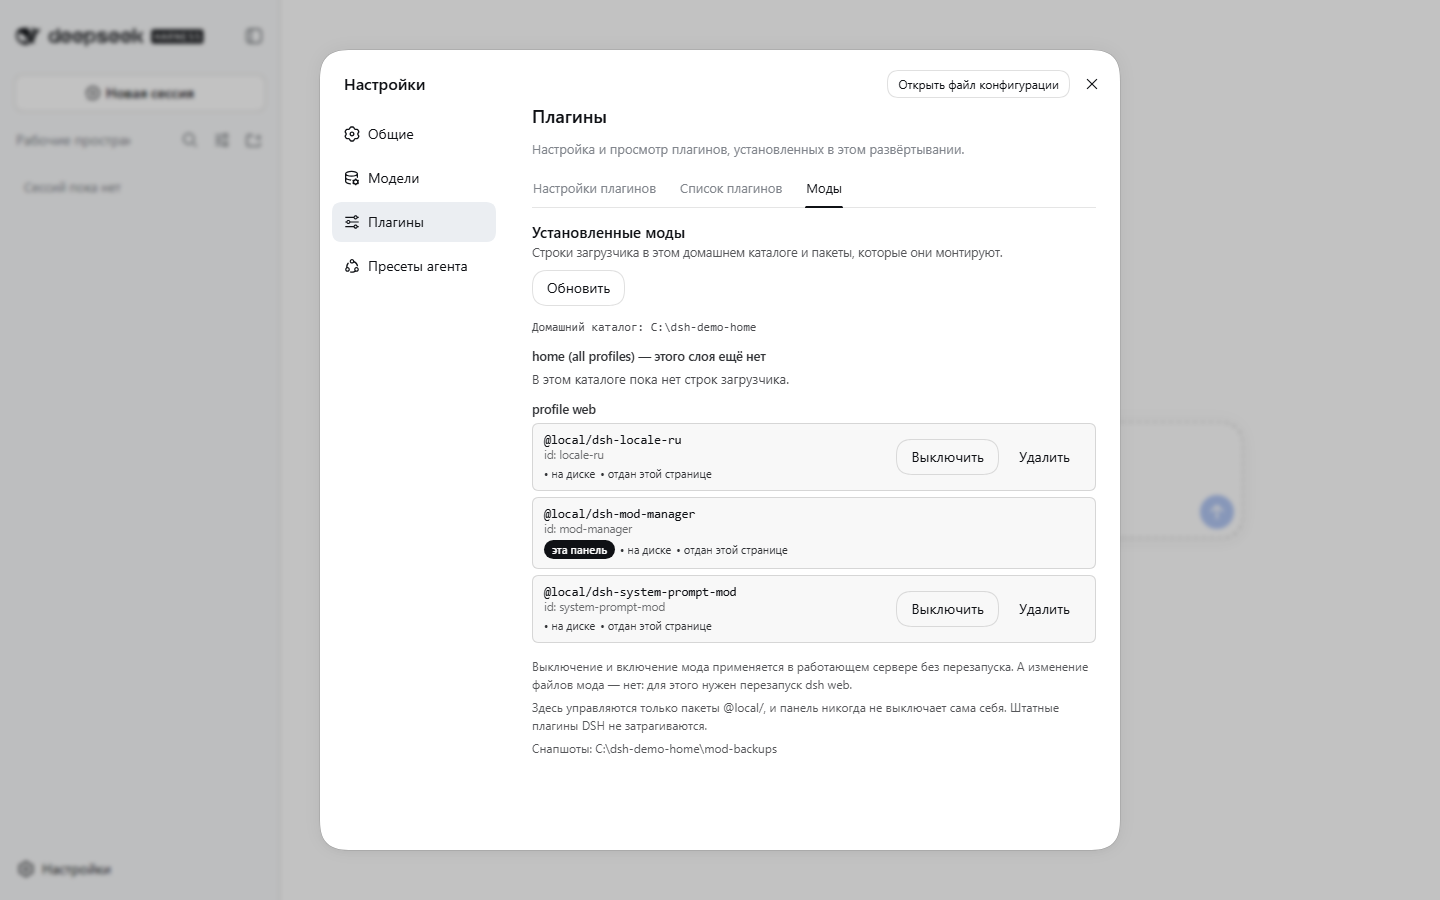
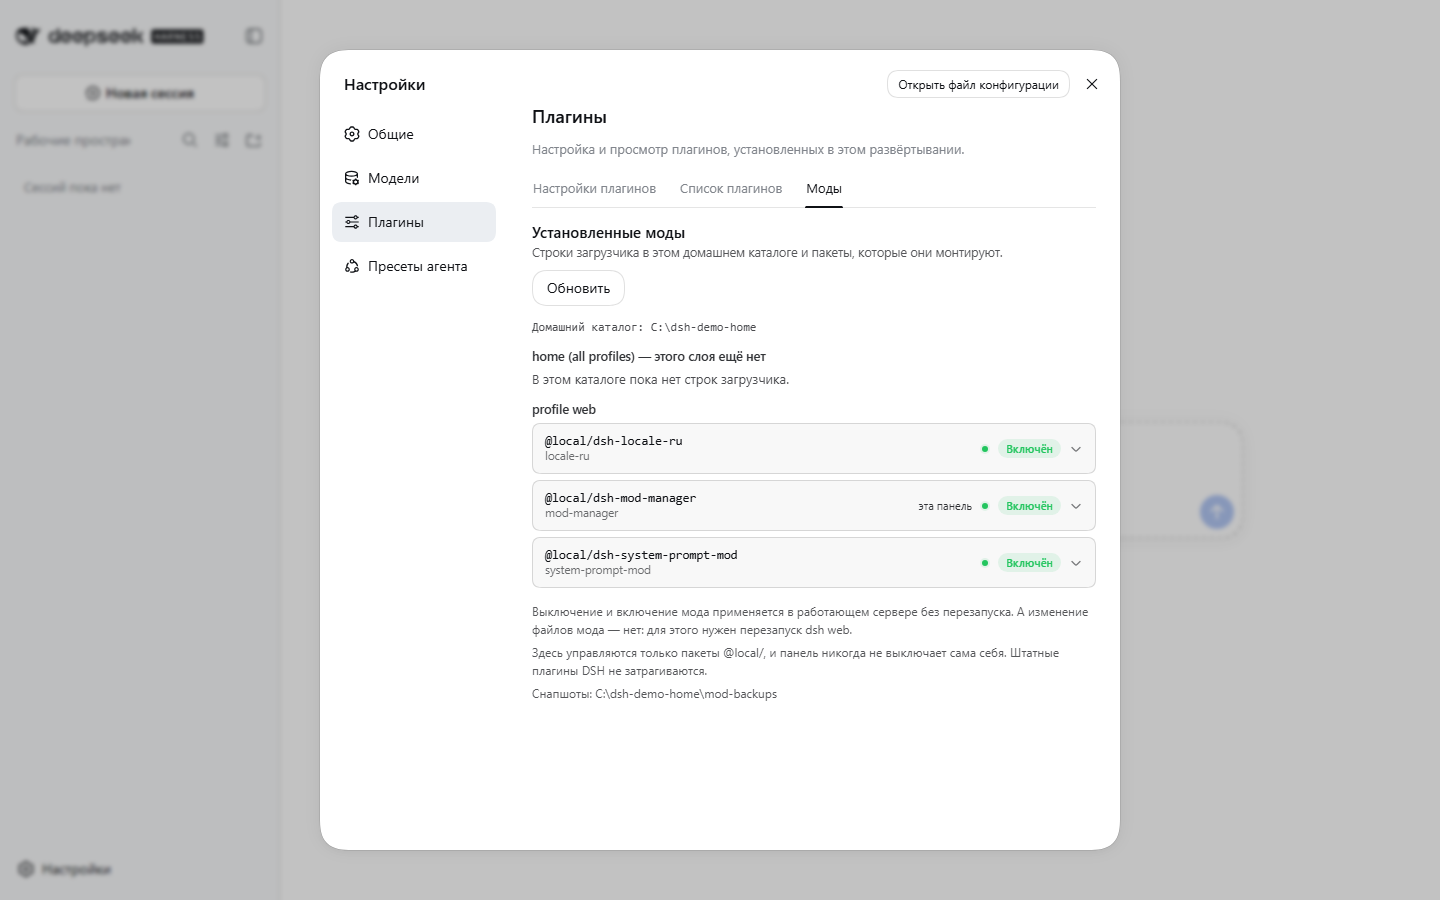
Make the mod cards the platform's own format, not a look-alike
The shipped plugin inventory builds its rows from primitives.Tag and primitives.StateDot, and both are available to any plugin. The panel now uses them too, so a mod reads green when it is on and red when it is off exactly the way every other plugin in DSH reads, rather than in a private style that only resembled it.

Each row is a card: the name and id, a state dot, the enablement tag and a disclosure chevron. Clicking the tag is the control that turns the mod off or on. Opening the chevron shows the module, its configuration state, whether the package is on disk, whether this page was served it, its size, and the actions - so the destructive one is no longer under the cursor of someone scanning the list.

The panel also stopped remembering the page's boot graph from load time and reads it on every render, which is what the card's dot reports.

Tested both ways: the stub now carries StateDot and the chevron so the tones and the toggle are asserted, and a real headless-Edge run confirms the primitives resolve at runtime - green on, red off, row gone from the patch, no console errors. docs/VERIFICATION.md records it, and both screenshots are retaken.

Changed region(s): [[0.375, 0.4667, 0.75, 0.84]]

diff --git a/packages/mod-manager/lib/client.js b/packages/mod-manager/lib/client.js
@@ -53,6 +53,18 @@ window.__ModuleLoader__.load({
 			notOnDisk: "missing on disk",
 			selfBadge: "this panel",
 			offBadge: "turned off",
+			stateOn: "On",
+			stateOff: "Off",
+			stateBroken: "No package",
+			detailsModule: "Module",
+			detailsConfig: "Configuration",
+			detailsServed: "Served to this page",
+			detailsOnDisk: "On disk",
+			detailsSize: "Size",
+			detailsActions: "Actions",
+			yes: "yes",
+			no: "no",
+			files: "files",
 			unmanaged: "not managed",
 			disable: "Turn off",
 			enable: "Turn on",
@@ -97,6 +109,18 @@ window.__ModuleLoader__.load({
 			notOnDisk: "нет на диске",
 			selfBadge: "эта панель",
 			offBadge: "выключен",
+			stateOn: "Включён",
+			stateOff: "Выключен",
+			stateBroken: "Нет пакета",
+			detailsModule: "Модуль",
+			detailsConfig: "Конфигурация",
+			detailsServed: "Отдан этой странице",
+			detailsOnDisk: "На диске",
+			detailsSize: "Размер",
+			detailsActions: "Действия",
+			yes: "да",
+			no: "нет",
+			files: "файлов",
 			unmanaged: "не управляется",
 			disable: "Выключить",
 			enable: "Включить",
@@ -265,6 +289,32 @@ window.__ModuleLoader__.load({
 				wordBreak: "break-all",
 			},
 			rowId: { fontSize: "11.5px", opacity: 0.6 },
+			card: {
+				borderRadius: "10px",
+				border: "1px solid var(--dsw-alias-border-secondary, rgba(127,127,127,.28))",
+				background: "var(--dsw-alias-bg-secondary, rgba(127,127,127,.05))",
+				overflow: "hidden",
+			},
+			cardHeader: {
+				display: "flex",
+				alignItems: "center",
+				gap: "10px",
+				padding: "10px 12px",
+				cursor: "pointer",
+			},
+			cardMain: { flex: "1 1 auto", minWidth: 0 },
+			cardRight: { display: "flex", alignItems: "center", gap: "8px", flexShrink: 0 },
+			dot: { display: "inline-flex", alignItems: "center" },
+			chevron: { display: "inline-flex", opacity: 0.55, transition: "transform .15s ease" },
+			details: {
+				display: "grid",
+				gridTemplateColumns: "auto minmax(0, 1fr)",
+				gap: "4px 14px",
+				margin: 0,
+				padding: "0 12px 12px",
+				fontSize: "12.5px",
+			},
+			detailsLabel: { opacity: 0.6 },
 			badges: { display: "flex", flexWrap: "wrap", gap: "5px", alignItems: "center", marginTop: "4px" },
 			badge: { fontSize: "11px", opacity: 0.85 },
 			actions: { display: "flex", gap: "6px", flexWrap: "nowrap" },
@@ -290,9 +340,13 @@ window.__ModuleLoader__.load({
 			// function each time, and the effect below would refetch forever.
 			const t = react.useMemo(() => translator(props?.t), [props?.t]);
 			const [state, setState] = react.useState(null);
-			const [served, setServed] = react.useState(() => servedNames());
+			// Read on every render rather than remembered at load: the page's own
+			// boot graph is what the panel is reporting, and it can change under it.
+			const served = servedNames();
 			const [busy, setBusy] = react.useState(false);
 			const [notice, setNotice] = react.useState(null);
+			// One open card at a time, the way the shipped plugin inventory behaves.
+			const [expanded, setExpanded] = react.useState(null);
 
 			const load = react.useCallback(() => {
 				setBusy(true);
@@ -306,7 +360,6 @@ window.__ModuleLoader__.load({
 						return;
 					}
 					setState(body);
-					setServed(servedNames());
 				}, (error) => {
 					setNotice({ kind: "error", text: t(ERROR_KEYS[String(error?.message)] ?? "errGeneric") });
 				}).finally(() => {
@@ -328,7 +381,6 @@ window.__ModuleLoader__.load({
 						return;
 					}
 					if (body.state !== undefined) setState(body.state);
-					setServed(servedNames());
 					setNotice({ kind: "info", text: t(okKey) });
 				}, (error) => {
 					setNotice({ kind: "error", text: t(ERROR_KEYS[String(error?.message)] ?? "errGeneric") });
@@ -354,62 +406,113 @@ window.__ModuleLoader__.load({
 				body.push(h("div", { style: styles.notice, key: "loading" }, t("loading")));
 			}
 
-			const rowOf = (layer, row) => {
+			/**
+			 * One mod as an official-style card.
+			 *
+			 * The tag and the dot are the platform's own `Tag` and `StateDot`, with
+			 * the same tones the shipped plugin inventory uses — `success` for on,
+			 * `danger` for off — so a mod reads the way every other plugin in DSH
+			 * reads. Clicking the tag turns the mod off or on; the chevron opens the
+			 * details, where the destructive action lives rather than under the
+			 * cursor of someone scanning the list.
+			 */
+			const cardOf = (layer, row) => {
+				const key = `${layer.key}:${row.id}`;
+				const isOpen = expanded === key;
 				const present = row.package !== null && row.package !== undefined;
 				const isServed = served.has(row.name);
-				const badges = h("div", { style: styles.badges },
-					row.disabled ? badge(t, "offBadge", "solid") : null,
-					row.self ? badge(t, "selfBadge", "solid") : null,
-					!row.managed ? h("span", { style: styles.badge, key: "unmanaged" }, t("unmanaged")) : null,
-					present
-						? h("span", { style: styles.badge, key: "disk" }, `• ${t("onDisk")}`)
-						: badge(t, "notOnDisk", "neutral"),
-					h("span", { style: styles.badge, key: "served" }, isServed ? `• ${t("served")}` : `• ${t("notServed")}`));
-
-				// Which toggle is offered follows whether the row is in the patch
-				// file, not whether the package is on disk: a broken row can still
-				// be turned off, and a turned-off row is the only thing that can be
-				// turned back on.
 				const canManage = row.managed && !row.self;
-				const actions = h("div", { style: styles.actions },
-					canManage
-						? (row.disabled
-							? h(primitives.Button, {
-								variant: "outline",
-								disabled: busy,
-								key: "enable",
-								title: present ? undefined : t("errPackageNotInstalled"),
-								onClick: () => {
-									run({ action: "enable", layer: layer.key, id: row.id }, "okEnabled");
-								},
-							}, t("enable"))
-							: h(primitives.Button, {
-								variant: "outline",
-								disabled: busy,
-								key: "disable",
-								onClick: () => {
-									run({ action: "disable", layer: layer.key, id: row.id }, "okDisabled");
-								},
-							}, t("disable")))
-						: null,
-					canManage && present && !row.disabled
-						? h(primitives.Button, {
-							variant: "ghost",
-							disabled: busy,
-							key: "uninstall",
-							onClick: () => {
-								if (globalThis.confirm?.(t("confirmUninstall")) === false) return;
-								run({ action: "uninstall", layer: layer.key, id: row.id }, "okUninstalled");
-							},
-						}, t("uninstall"))
-						: null);
+				const broken = !present;
+				const tone = row.disabled ? "danger" : (broken ? "warning" : "success");
+				const label = row.disabled ? t("stateOff") : (broken ? t("stateBroken") : t("stateOn"));
+				const dotState = row.disabled ? "idle" : (broken ? "error" : (isServed ? "done" : "idle"));
 
-				return h("div", { style: styles.row, key: `${layer.key}:${row.id}` },
-					h("div", { style: { minWidth: 0 } },
-						h("div", { style: styles.modName }, row.name),
-						h("div", { style: styles.rowId }, `id: ${row.id}`),
-						badges),
-					actions);
+				const act = (payload, okKey) => (event) => {
+					if (typeof event?.stopPropagation === "function") event.stopPropagation();
+					run(payload, okKey);
+				};
+
+				const tag = h(primitives.Tag, { tone, key: "tag" }, label);
+				const right = h("div", { style: styles.cardRight },
+					row.self ? h("span", { style: styles.badge, key: "self" }, t("selfBadge")) : null,
+					!row.managed ? h("span", { style: styles.badge, key: "unmanaged" }, t("unmanaged")) : null,
+					h("span", { style: styles.dot, key: "dot", title: isServed ? t("served") : t("notServed") },
+						h(primitives.StateDot, { state: dotState })),
+					canManage
+						? h("span", {
+							key: "toggle",
+							role: "button",
+							title: row.disabled ? t("enable") : t("disable"),
+							style: { display: "inline-flex", cursor: busy ? "default" : "pointer" },
+							onClick: row.disabled
+								? act({ action: "enable", layer: layer.key, id: row.id }, "okEnabled")
+								: act({ action: "disable", layer: layer.key, id: row.id }, "okDisabled"),
+						}, tag)
+						: tag,
+					h("span", {
+						key: "chevron",
+						style: { ...styles.chevron, transform: isOpen ? "rotate(180deg)" : "none" },
+					}, h(primitives.IconChevronDownOutline14, {})));
+
+				const pair = (name, value, id) => [
+					h("dt", { style: styles.detailsLabel, key: `${id}-l` }, name),
+					h("dd", { style: { margin: 0, wordBreak: "break-all" }, key: `${id}-v` }, value),
+				];
+				const rows = [
+					pair(t("detailsModule"), row.name, "m"),
+					pair(t("detailsConfig"), row.disabled ? t("stateOff") : t("stateOn"), "c"),
+					pair(t("detailsServed"), isServed ? t("yes") : t("no"), "s"),
+					pair(t("detailsOnDisk"), present ? t("yes") : t("no"), "d"),
+				];
+				if (present) {
+					rows.push(pair(t("detailsSize"), `${sizeOf(row.package.bytes)} · ${String(row.package.files)} ${t("files")}`, "z"));
+				}
+				if (canManage) {
+					rows.push(
+						h("dt", { style: styles.detailsLabel, key: "a-l" }, t("detailsActions")),
+						h("dd", { style: { margin: 0 }, key: "a-v" }, h("div", { style: styles.actions },
+							row.disabled
+								? h(primitives.Button, {
+									variant: "outline",
+									disabled: busy,
+									key: "enable",
+									onClick: act({ action: "enable", layer: layer.key, id: row.id }, "okEnabled"),
+								}, t("enable"))
+								: h(primitives.Button, {
+									variant: "outline",
+									disabled: busy,
+									key: "disable",
+									onClick: act({ action: "disable", layer: layer.key, id: row.id }, "okDisabled"),
+								}, t("disable")),
+							present && !row.disabled
+								? h(primitives.Button, {
+									variant: "ghost",
+									disabled: busy,
+									key: "uninstall",
+									onClick: (event) => {
+										if (typeof event?.stopPropagation === "function") event.stopPropagation();
+										if (globalThis.confirm?.(t("confirmUninstall")) === false) return;
+										run({ action: "uninstall", layer: layer.key, id: row.id }, "okUninstalled");
+									},
+								}, t("uninstall"))
+								: null)),
+					);
+				}
+
+				return h("div", { style: styles.card, key },
+					h("div", {
+						style: styles.cardHeader,
+						role: "button",
+						"aria-expanded": isOpen,
+						onClick: () => {
+							setExpanded(isOpen ? null : key);
+						},
+					},
+						h("div", { style: styles.cardMain },
+							h("div", { style: styles.modName }, row.name),
+							h("div", { style: styles.rowId }, row.id)),
+						right),
+					isOpen ? h("dl", { style: styles.details }, rows) : null);
 			};
 
 			for (const layer of state?.layers ?? []) {
@@ -418,7 +521,7 @@ window.__ModuleLoader__.load({
 						`${layer.label}${layer.exists ? "" : ` — ${t("layerMissing")}`}`),
 					layer.rows.length === 0
 						? h("div", { style: styles.noticeInfo }, t("empty"))
-						: layer.rows.map((row) => rowOf(layer, row))));
+						: layer.rows.map((row) => cardOf(layer, row))));
 			}
 
 			if ((state?.orphans ?? []).length > 0) {

diff --git a/docs/VERIFICATION.ru.md b/docs/VERIFICATION.ru.md
@@ -36,6 +36,7 @@ headless Edge под управлением Chrome DevTools Protocol для пр
 | 22 | Чистый каталог устанавливается и запускается | `node tools/install.mjs`, затем `dsh web` на отдельном каталоге | **PASS** — пакеты легли как `@local/dsh-*`, 171 запись в boot-графе, все три мода в списке, оба host-роута `200` |
 | 23 | Выключение и включение мода из панели, в реальном GUI | headless Edge: Настройки → Плагины → Моды | **PASS** — выключение убрало строку из патча, роут ответил `404`; включение вернуло и строку, и `200`; 0 ошибок в консоли |
 | 24 | Установщик кладёт пакеты туда, где их ищет загрузчик | чистый каталог, затем чтение `@local/` | **PASS** — `dsh-locale-ru`, `dsh-mod-manager`, `dsh-system-prompt-mod`; установка под именем папки репозитория оставляла чистый каталог вообще неспособным загрузиться |
+| 25 | Карточки собраны из штатных элементов, в живом интерфейсе | headless Edge: Настройки → Плагины → Моды | **PASS** — зелёные плашки **«Включён»** с точкой `done`; выключение перекрашивает в красную **«Выключен»**, а строка уходит из патча; 0 ошибок в консоли, то есть `Tag`, `StateDot` и шеврон существуют в рантайме, а не только в заглушке |
 
 ### Как воспроизвести эту таблицу
 

diff --git a/packages/mod-manager/README.ru.md b/packages/mod-manager/README.ru.md
@@ -6,6 +6,17 @@
 
 Это способ управлять модами без терминала — и без догадок, нужен ли перезапуск.
 
+## Карточки — штатные
+
+Каждый мод показан карточкой того же формата, что и в штатном инвентаре
+плагинов, и собран из тех же элементов: платформенных `Tag` и `StateDot`.
+Поэтому мод читается **зелёным, когда включён**, и **красным, когда выключен** —
+как и любой другой плагин в DSH, а не похожей подделкой.
+
+Плашка — это и есть переключатель: нажатие выключает или включает мод. Шеврон
+раскрывает карточку, где лежат подробности и необратимое действие, — чтобы оно
+не оказалось под курсором у того, кто просто просматривает список.
+
 ## Что показывает
 
 По каждому слою патча — домашнему и каждому профилю — его строки, а по каждой

diff --git a/docs/VERIFICATION.md b/docs/VERIFICATION.md
@@ -36,6 +36,7 @@ headless Edge driven over the DevTools Protocol for the UI checks.
 | 22 | A clean home installs and boots | `node tools/install.mjs`, then `dsh web` on a scratch home | **PASS** — packages land under `@local/dsh-*`, 171 boot rows, all three mods listed, both host routes `200` |
 | 23 | Turning a mod off and on from the panel, in the real GUI | headless Edge: Settings → Plugins → Mods | **PASS** — turning the prompt mod off removed its row and the route answered `404`; turning it back on restored both; 0 console errors |
 | 24 | The installer places packages where the loader looks | clean home, then read `@local/` | **PASS** — `dsh-locale-ru`, `dsh-mod-manager`, `dsh-system-prompt-mod`; installing under the repository's folder name had left a clean home unable to boot at all |
+| 25 | The cards use the platform's own components, in the real GUI | headless Edge: Settings → Plugins → Mods | **PASS** — green **Включён** tags with the done dot; turning one off flipped it to a red **Выключен** and its row left the patch; 0 console errors, so `Tag`, `StateDot` and the chevron resolve at runtime rather than only in the stub |
 
 ### Reproducing this table
 

diff --git a/packages/mod-manager/README.md b/packages/mod-manager/README.md
@@ -7,6 +7,17 @@ turn a mod off, turn it back on, or remove it.
 It is how you manage mods without a terminal — and without guessing whether a
 restart is needed.
 
+## The cards are the platform's own
+
+Each mod is a card in the format the shipped plugin inventory already uses, built
+from the same components: the platform's `Tag` and `StateDot`. A mod therefore
+reads **green when it is on** and **red when it is off**, the way every other
+plugin in DSH reads — not a private look-alike.
+
+Clicking the tag is the control: it turns the mod off or on. The chevron opens
+the card, where the details and the destructive action live, so nothing
+irreversible sits under the cursor of someone scanning the list.
+
 ## What it shows
 
 For every patch layer — the home layer and each profile — the rows it declares,
